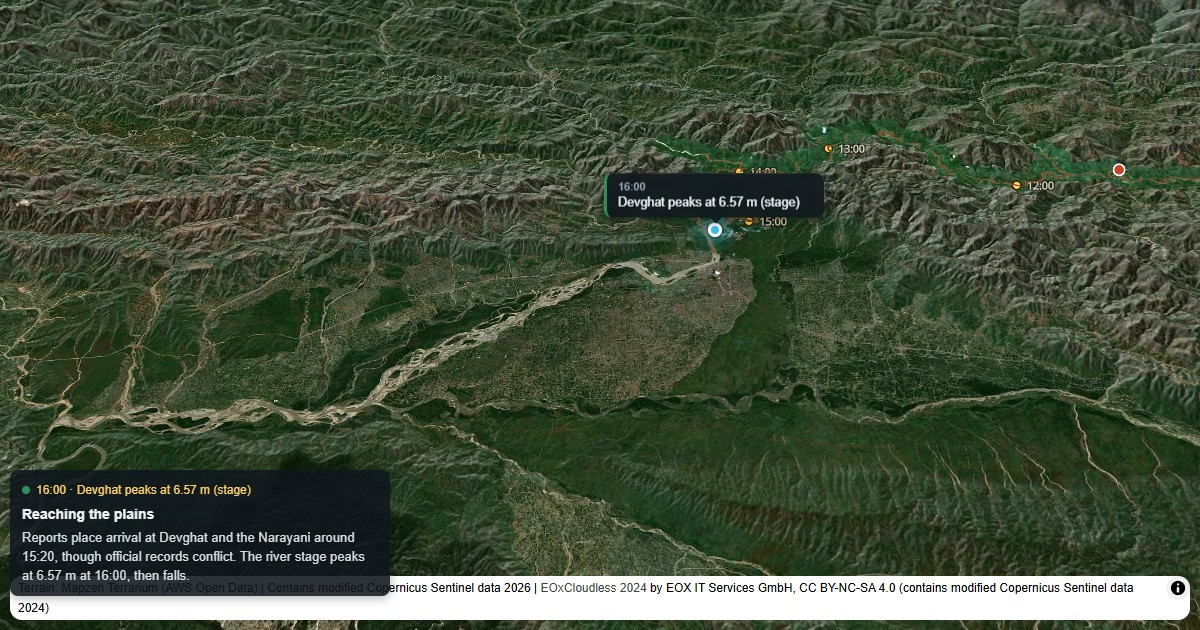
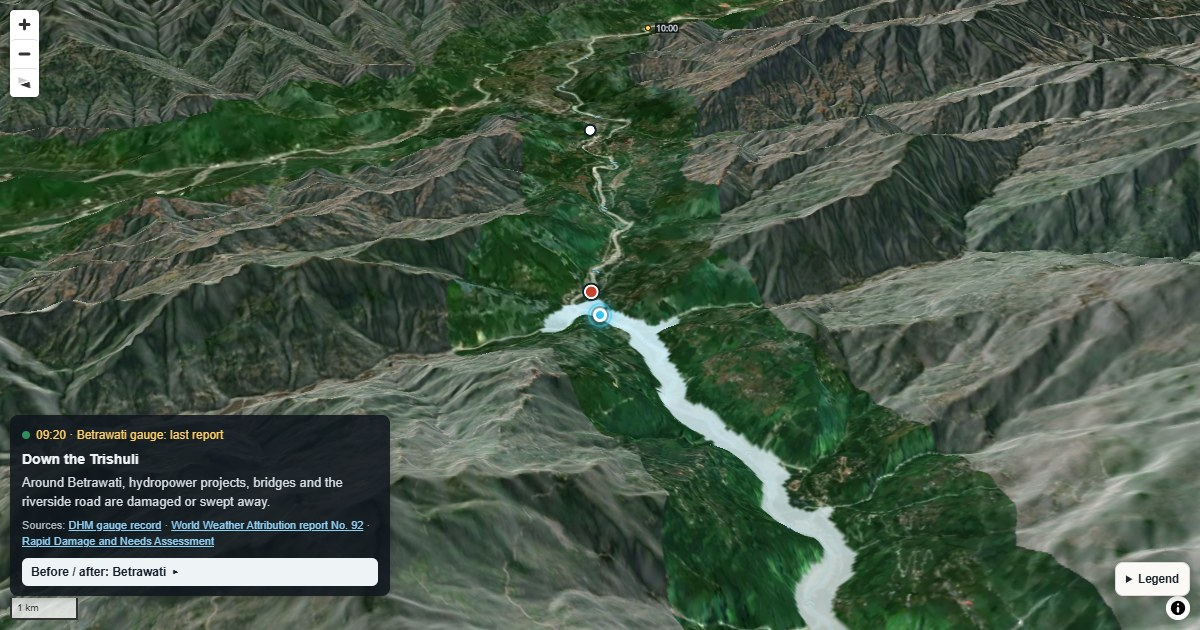
Replace link preview image with current map view
The old preview showed the previous terrain and basemap credits, and its caption overlapped the credits bar. Licence notes no longer say the share image uses the 2024 mosaic.

diff --git a/web/index.html b/web/index.html
@@ -12,7 +12,7 @@
 <meta property="og:image" content="https://trishuli-flood-trace.vercel.app/og.jpg">
 <meta property="og:image:width" content="1200">
 <meta property="og:image:height" content="630">
-<meta property="og:image:alt" content="3D map of the Trishuli river with hourly positions of the 26 August 2026 flood front reaching Devghat">
+<meta property="og:image:alt" content="3D map of the Trishuli valley with the estimated front of the 26 August 2026 flood near Betrawati at 09:20">
 <meta name="twitter:card" content="summary_large_image">
 <meta name="theme-color" content="#14212b">
 <link rel="icon" href="data:,">

diff --git a/DATA-LICENCES.md b/DATA-LICENCES.md
@@ -19,7 +19,7 @@ The MIT licence in `LICENSE` covers the **code only**. Each data file published 
 | `media/park_*.mp4` and posters | Park (2026), Zenodo 10.5281/zenodo.22566624 v2.0.0 | **CC BY 4.0** | Cite the author, version DOI and file name; label as model scenarios; keep the preprint caveat |
 | `sites/esa_pre.webp`, `sites/esa_post.webp` | ESA renderings via Wikimedia Commons: Sentinel-2 24 Aug 2026; Landsat 9 26 Aug 2026 | **CC BY-SA 3.0 IGO** (24 Aug) and **CC BY 4.0** (26 Aug) | Credit ESA (and Copernicus / USGS-NASA for the data); resized only; share adaptations of the 24 Aug image under CC BY-SA 3.0 IGO |
 | `docs/media/` (README animations and images) | Screen recordings of this app (EOxCloudless 2025 basemap, UNOSAT and EMS layers); before/after wipes from `sites/*.webp`; sped-up excerpts of `media/model_s7.mp4` and `media/park_gorge_oblique_5s.mp4` | **CC BY-NC-SA 4.0** for the app recordings and the source-site wipe; **CC BY-NC 4.0** for the other wipes; **CC BY 4.0** for the simulation excerpts | Same credits as the files they come from; these are adaptations (cropped, resized, sped up, re-encoded as animated WebP/GIF) |
-| Basemap (not stored here; streamed) and `web/og.jpg` (share image) | EOxCloudless 2025 by EOX IT Services GmbH (the share image shows the earlier 2024 mosaic) | **CC BY-NC-SA 4.0** | Non-commercial use only; credit EOX with a link to https://cloudless.eox.at; adaptations such as the share image are shared under CC BY-NC-SA 4.0 |
+| Basemap (not stored here; streamed) and `web/og.jpg` (share image) | EOxCloudless 2025 by EOX IT Services GmbH | **CC BY-NC-SA 4.0** | Non-commercial use only; credit EOX with a link to https://cloudless.eox.at; adaptations such as the share image are shared under CC BY-NC-SA 4.0 |
 
 Notes:
 
